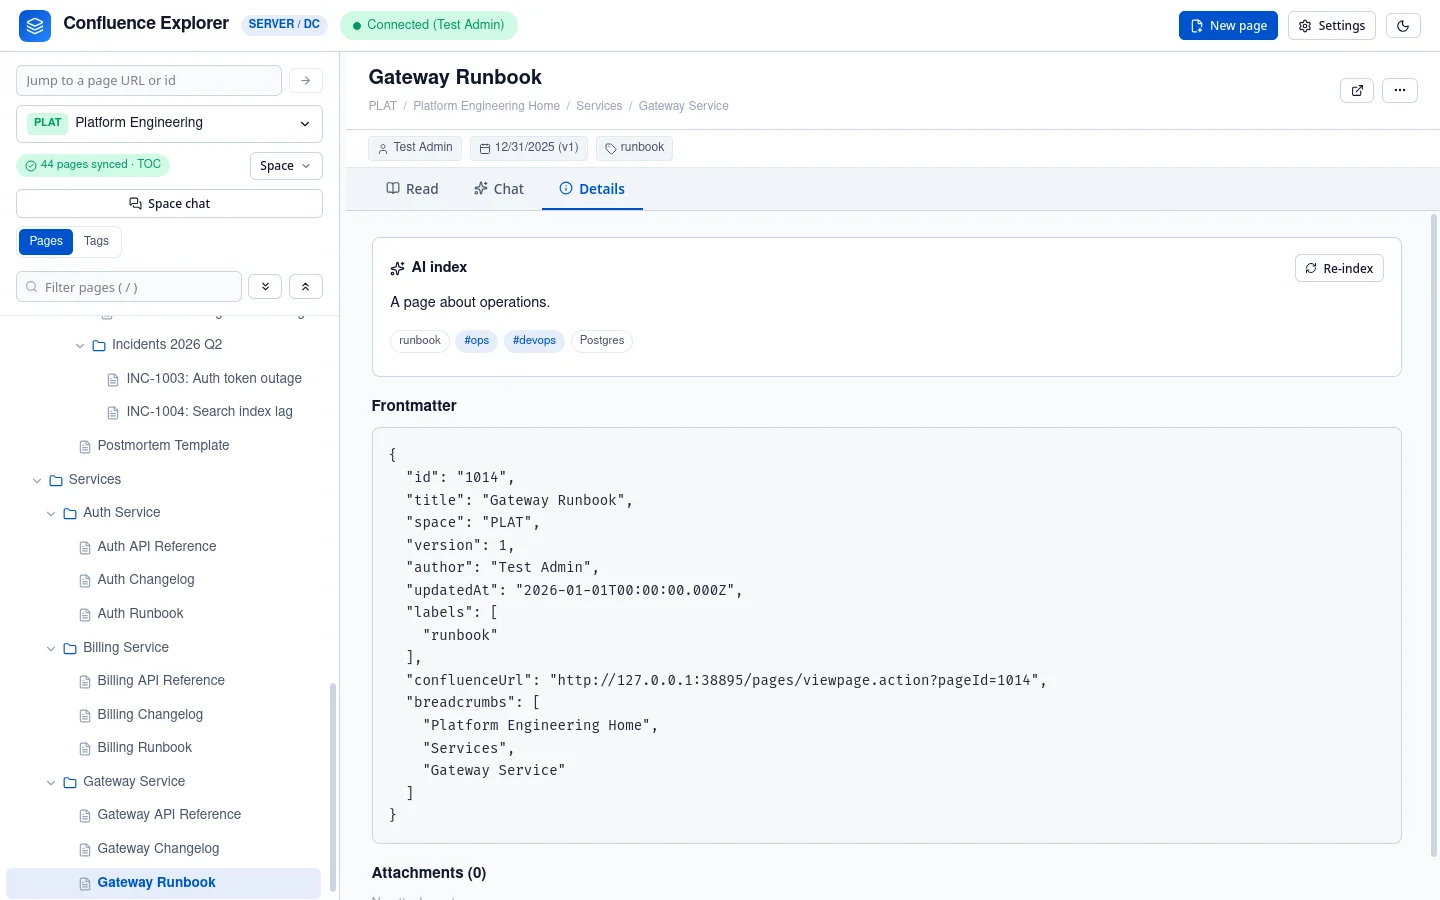
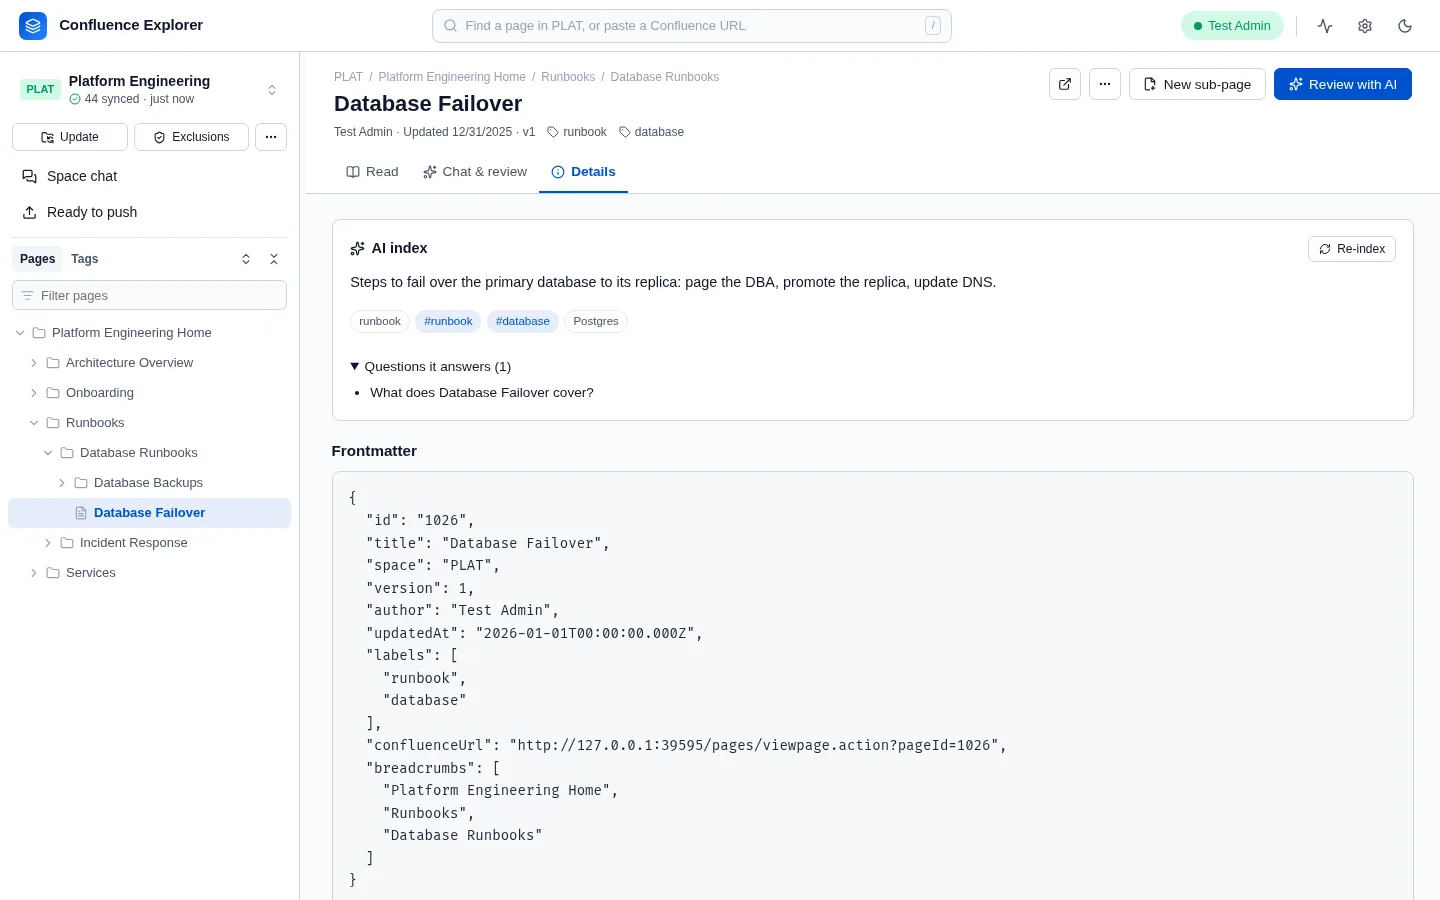
docs: the guide screenshots show the clearer layout, and drafts no longer list page chats (#52)
* fix: the new-page dialog lists only drafts to continue, never a page chat with no title

The session list's kind filter did not know the draft kind, so asking for drafts dropped the filter
and returned every conversation in the space; each page chat then showed in Continue a draft as an
untitled row. The filter now accepts draft.

* docs: the guide screenshots show the clearer layout

Every screenshot in the guides is taken again from the built app against the test dataset, in the
layout of design doc 0014: the header search, the sidebar, the page view, the chat beside its review
queue, an edit in the full-window review, Space chat's chips, Ready to push, Settings in sections,
the new-page dialog and Observability. Captions that described the old layout are reworded.

---------

diff --git a/packages/simply-confluence-explorer/test/drafts.test.ts b/packages/simply-confluence-explorer/test/drafts.test.ts
@@ -198,6 +198,17 @@ describe('a draft', () => {
     });
   });
 
+  it('lists only drafts as drafts to continue, never a page chat with no title', async () => {
+    await withApp(async (app) => {
+      await start(app, 'Replica Lag Alerts');
+      await app.call('POST', '/ai/sessions', {
+        scope: { kind: 'branch', spaceKey: 'PLAT', pageId: parent(), title: 'Database Runbooks' },
+      });
+      const { body } = await app.call<{ sessions: AiSessionView[] }>('GET', '/ai/sessions?kind=draft&spaceKey=PLAT');
+      expect(body.sessions.map((s) => [s.scope.kind, s.draft?.title])).toEqual([['draft', 'Replica Lag Alerts']]);
+    });
+  });
+
   it('cannot be written through the general conversation route', async () => {
     await withApp(async (app) => {
       const { body: d } = await start(app, 'Another Page');

diff --git a/packages/simply-confluence-explorer/src/routes/sessions.ts b/packages/simply-confluence-explorer/src/routes/sessions.ts
@@ -64,7 +64,7 @@ import { pause } from '../util/pause.js';
 import type { Services } from './api.js';
 import { fieldsOf, optionalString } from './browse.js';
 
-const KINDS = new Set(['page', 'branch', 'pages', 'space']);
+const KINDS = new Set(['page', 'branch', 'pages', 'space', 'draft']);
 
 const CHANGES_PROMPT = `Turn what this conversation has found or agreed into concrete changes to the pages provided.
 Reply with JSON only, in this shape:

diff --git a/packages/simply-confluence-explorer/docs/guides/changing-pages.md b/packages/simply-confluence-explorer/docs/guides/changing-pages.md
@@ -35,7 +35,7 @@ sent, with why) and **Closed and dismissed** (pushed, already done, no longer re
 with an edit under way is not ticked again; **Recommend again** offers it once its edit failed, or
 the chat reworded it.
 
-![The review queue, grouped by page, with a reworded suggestion](../images/review-queue.webp)
+![The review queue beside the chat, its suggestions grouped by page, one of them ticked](../images/review-queue.webp)
 
 Every suggestion that cannot be ticked says why:
 
@@ -68,7 +68,7 @@ full screen** or Esc goes back to the chat, and the expand button in the queue o
 your mind; **Accept all** and **Reject all** decide the page at once. Beside it is the AI's
 recommendation: the suggestions applied, what it says it changed, and anything it did not apply.
 
-![An edit side by side, with the AI's recommendation](../images/edit-side-by-side.webp)
+![An edit side by side in the full-window review, with the queue on the left and the AI's recommendation](../images/edit-side-by-side.webp)
 
 **Work on this edit in the chat** makes your next question about that edit, shown as "Working on"
 above the question box. Ask for a change, such as "shorter", and the chat proposes a revised edit;

diff --git a/packages/simply-confluence-explorer/docs/guides/asking-ai.md b/packages/simply-confluence-explorer/docs/guides/asking-ai.md
@@ -96,7 +96,7 @@ copy, so sync the space first. Its conversations are listed on the left, newest 
 your computer. **New chat** starts another; the pencil renames one, and the bin deletes it after you
 confirm.
 
-![Space chat answering from the whole space, with the pages it read and why](../images/space-chat.webp)
+![Space chat answering from the pages it reads, with the sections it read](../images/space-chat.webp)
 
 **Reading** above the conversation shows what the chat reads, as a row of chips. With none, it reads
 the **Whole space**: every page that the exclusion rules allow. **Add pages or tags** opens a search:
@@ -107,7 +107,7 @@ directory or tag is read as it is when you ask, so a page added under it later i
 at the end of the row says how many of the pages are indexed; hover over it to see how each question
 reads them.
 
-![Space chat with two directories and a page chosen, and the line saying how they are read](../images/space-chat.webp)
+![Space chat with two directories and a page chosen as chips, and how many of them are indexed](../images/space-chat.webp)
 
 There is no limit on how many pages a chat reads from:
 

diff --git a/packages/simply-confluence-explorer/docs/guides/syncing-a-space.md b/packages/simply-confluence-explorer/docs/guides/syncing-a-space.md
@@ -13,7 +13,7 @@ your disk instead of from Confluence, and the AI features that work across many 
 
 Choose a space in the sidebar and click **Sync**, under the space's name.
 
-![The Space menu, with Sync space at the top](../images/space-menu.webp)
+![The space's actions under its name, with the ⋯ menu open](../images/space-menu.webp)
 
 The sidebar shows progress as the pages arrive, with a **Stop** button, and the header shows it too
 while you browse; if you reload the page, the progress comes back. When the sync finishes, a
